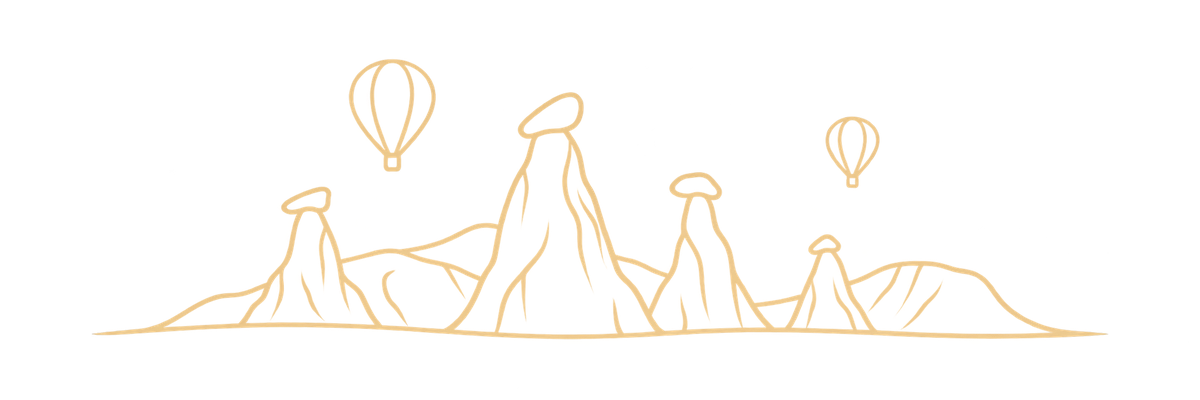
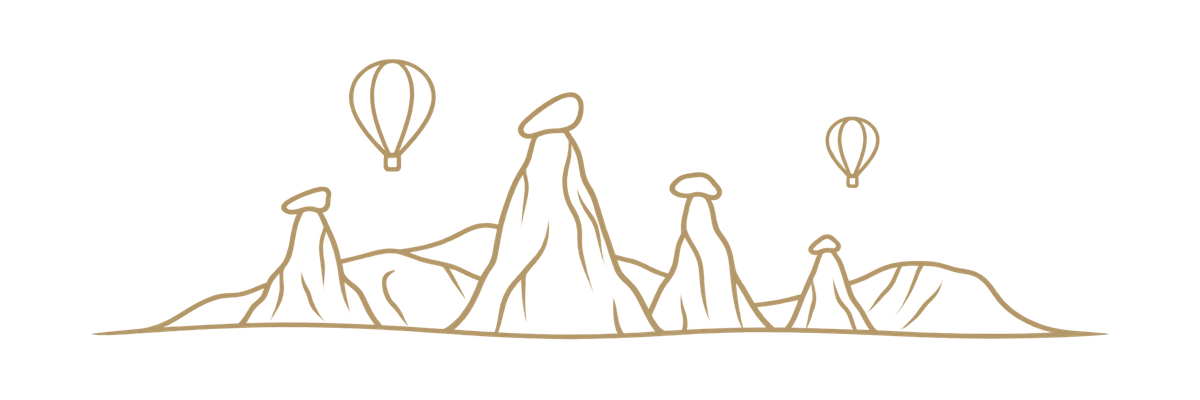
resimler

Changed region(s): [[0.0925, 0.21, 0.925, 0.87], [0.2775, 0.15, 0.37, 0.45], [0.6783, 0.3, 0.74, 0.45]]

diff --git a/assets/style.css b/assets/style.css
@@ -27,7 +27,7 @@ header{background:#fff;border-bottom:1px solid var(--line);position:sticky;top:0
 .lang{padding:9px 11px;border:1px solid var(--line);border-radius:9px;background:#fff}
 .menu{display:none;border:1px solid var(--line);background:#fff;border-radius:10px;width:44px;height:44px;font-size:22px}
 .hero{background:linear-gradient(180deg,#fff 0%,#fdfbf7 100%);padding:34px 0 28px;position:relative;overflow:hidden}
-.hero:after{content:"";position:absolute;right:-8px;bottom:-12px;width:min(46vw,560px);height:235px;background:url('cappadocia-hero-right.webp') right bottom/contain no-repeat;opacity:.78;pointer-events:none}
+.hero:after{content:"";position:absolute;right:-8px;bottom:-12px;width:min(46vw,560px);height:235px;background:url('cappadocia-hero-right.webp') right bottom/contain no-repeat;opacity:.88;pointer-events:none}
 .hero-grid{display:grid;grid-template-columns:1.03fr .97fr;gap:34px;position:relative;z-index:2;align-items:start}
 .hero-visual-card{background:linear-gradient(180deg,#fff 0%,#f8f4ec 100%);border:1px solid var(--line);border-radius:22px;padding:22px 24px 10px;box-shadow:var(--shadow);display:flex;flex-direction:column}
 .hero-copy{position:relative;z-index:2}
@@ -75,7 +75,7 @@ input:focus,select:focus,textarea:focus{border-color:#97a9b9;box-shadow:0 0 0 3p
 .route-grid{display:grid;grid-template-columns:repeat(6,1fr);gap:12px}
 .route-card{border:1px solid var(--line);border-radius:13px;background:#fff;padding:15px;transition:.18s}
 .route-card:hover{transform:translateY(-2px);box-shadow:0 9px 22px rgba(13,43,75,.07)}
-.route-symbol{height:62px;border-radius:10px;background:#fbf8f1 url('cappadocia-fairy-chimneys-card.webp') center/contain no-repeat;margin-bottom:11px;opacity:.95;border:1px solid #f0e7d7}
+.route-symbol{height:62px;border-radius:10px;background:#fbf8f1 url('cappadocia-fairy-chimneys-card.webp') center/contain no-repeat;margin-bottom:11px;opacity:1;border:1px solid #ead9ba}
 .route-card h3{font-size:17px;margin:0}
 .route-meta{display:flex;gap:8px;color:#687582;font-size:11px;font-weight:750;margin:8px 0 11px}
 .route-card .primary{min-height:38px;font-size:12px}

diff --git a/index.html b/index.html
@@ -64,7 +64,7 @@
 <div class="route-meta"><span>≈ 80 km</span><span>75–85 minutes</span></div>
 <div class="primary">Book to Uçhisar →</div></a>
 <a class="route-card" href="/kayseri-airport-to-avanos/"><div class="route-symbol"></div><h3>Avanos</h3>
-<div class="route-meta"><span>≈ 70 km</span><span>around 60–70 minutes</span></div>
+<div class="route-meta"><span>≈ 70 km</span><span>60–70 min</span></div>
 <div class="primary">Book to Avanos →</div></a>
 <a class="route-card" href="/kayseri-airport-to-cavusin/"><div class="route-symbol"></div><h3>Çavuşin</h3>
 <div class="route-meta"><span>≈ 72 km</span><span>65–75 minutes</span></div>
